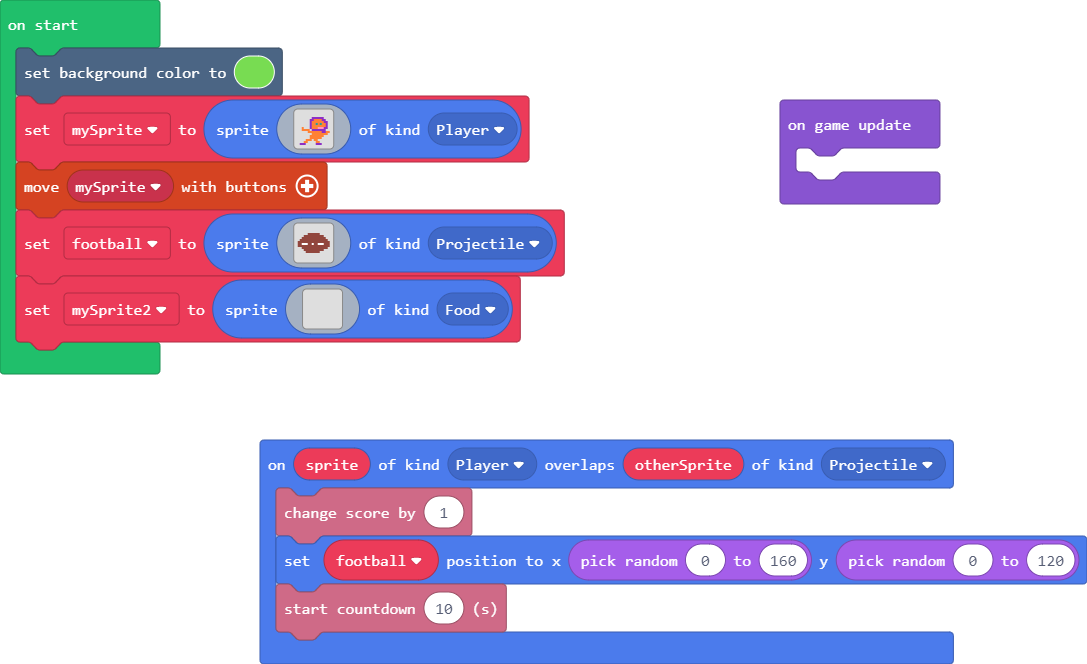
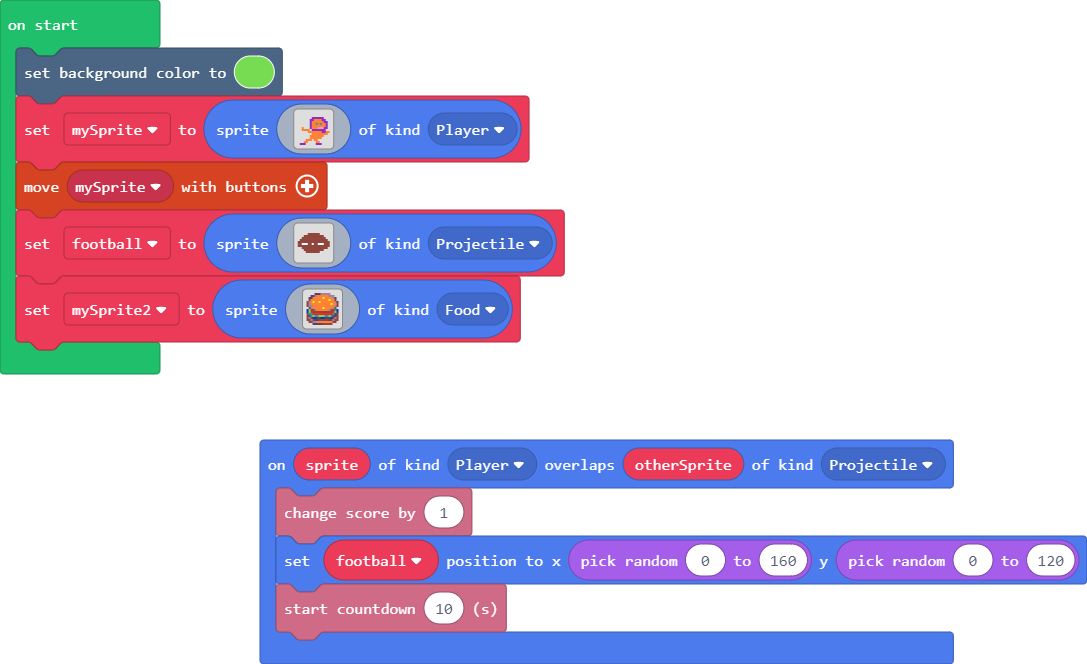
Update main.blocks, main.ts

Changed region(s): [[0.6983, 0.1506, 0.8804, 0.3313], [0.2732, 0.4217, 0.3339, 0.512]]

diff --git a/main.ts b/main.ts
@@ -43,23 +43,20 @@ e e e e e e e e e e e e e e e e
 . . . . . . . . . . . . . . . . 
 `, SpriteKind.Projectile)
 let mySprite2 = sprites.create(img`
-. . . . . . . . . . . . . . . . 
-. . . . . . . . . . . . . . . . 
-. . . . . . . . . . . . . . . . 
-. . . . . . . . . . . . . . . . 
-. . . . . . . . . . . . . . . . 
-. . . . . . . . . . . . . . . . 
-. . . . . . . . . . . . . . . . 
-. . . . . . . . . . . . . . . . 
-. . . . . . . . . . . . . . . . 
-. . . . . . . . . . . . . . . . 
-. . . . . . . . . . . . . . . . 
-. . . . . . . . . . . . . . . . 
-. . . . . . . . . . . . . . . . 
-. . . . . . . . . . . . . . . . 
-. . . . . . . . . . . . . . . . 
-. . . . . . . . . . . . . . . . 
+. . . . c c c b b b b b . . . . 
+. . c c b 4 4 4 4 4 4 b b b . . 
+. c c 4 4 4 4 4 5 4 4 4 4 b c . 
+. e 4 4 4 4 4 4 4 4 4 5 4 4 e . 
+e b 4 5 4 4 5 4 4 4 4 4 4 4 b c 
+e b 4 4 4 4 4 4 4 4 4 4 5 4 4 e 
+e b b 4 4 4 4 4 4 4 4 4 4 4 b e 
+. e b 4 4 4 4 4 5 4 4 4 4 b e . 
+8 7 e e b 4 4 4 4 4 4 b e e 6 8 
+8 7 2 e e e e e e e e e e 2 7 8 
+e 6 6 2 2 2 2 2 2 2 2 2 2 6 c e 
+e c 6 7 6 6 7 7 7 6 6 7 6 c c e 
+e b e 8 8 c c 8 8 c c c 8 e b e 
+e e b e c c e e e e e c e b e e 
+. e e b b 4 4 4 4 4 4 4 4 e e . 
+. . . c c c c c e e e e e . . . 
 `, SpriteKind.Food)
-game.onUpdate(function () {
-	
-})
